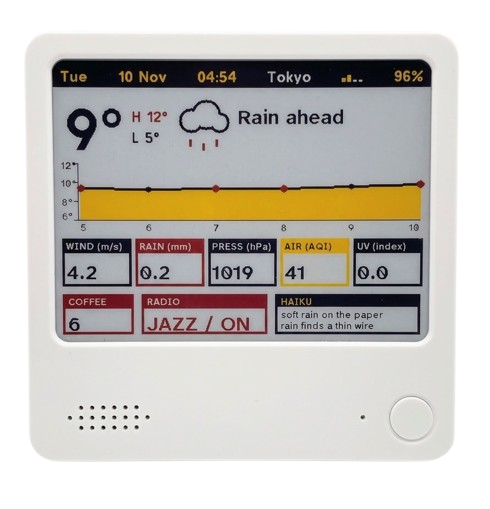
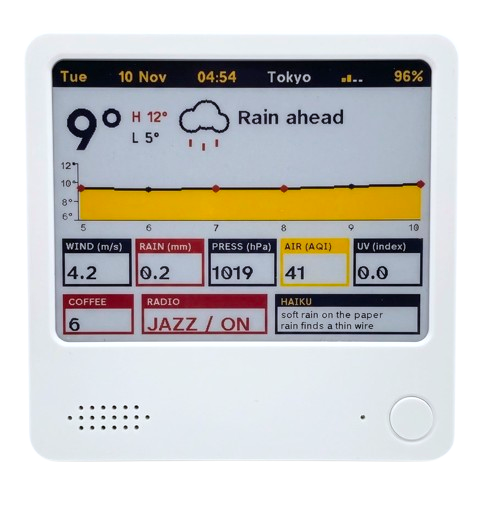
Explain phone NFC brew counting and refresh the hero photo.
The README now ties the brew tile to tapping your phone on the desk.

Changed region(s): [[0.1531, 0.3536, 0.8571, 0.5599]]

diff --git a/README.md b/README.md
@@ -34,7 +34,9 @@ The home network name and password are stored only in the device’s `home_nvs` 
 | Side Up / Down, short | Volume |
 | Side Up / Down, hold (~2 s) | Next / previous station |
 | Side Up and Down together, hold (~2 s) | Restart the device |
-| NFC tap | Count, chime, and refresh the tile |
+| Phone NFC on the desk | Add one to the brew count, chime, and refresh the tile |
+
+Hold the back of your phone on the JazzTrix until it responds. Each tap adds one to the brew box (for example **Coffee** on the paper). The setup page only changes the words on that tile; it does not change the count.
 
 The paper redraws on its own at most every four hours, and not between 00:00 and 06:00 local time. Coffee, radio, setup, and a triple-tap still refresh.
 
@@ -48,14 +50,14 @@ Setup stores these choices on the device:
 - **Unit suffix:** optional, for example `Wind (m/s)` or `Press (hPa)`.
 - **Titles:** box titles are uppercase. The setup page can leave them as written.
 - **Wind:** m/s, km/h, or mph. The number changes with the unit.
-- **Blocks:** temperature, forecast, NFC counter, and radio. Each can be turned off. The forecast is a graph, with every hour in the window labeled along the bottom. The left side shows at most four temperatures, stepped so they stay apart. Bars are the other choice. It can show 3, 6, 9, or 12 hours ahead.
+- **Blocks:** temperature, forecast, brew counter, and radio. Each can be turned off. The forecast is a graph, with every hour in the window labeled along the bottom. The left side shows at most four temperatures, stepped so they stay apart. Bars are the other choice. It can show 3, 6, 9, or 12 hours ahead.
 - **Borders:** on or off around the forecast, the temperature, the sky line (the icon and the condition), the weather tiles, the brew count, the radio, and the haiku. Tiles, brew, radio, and the haiku start with a border. The forecast, the temperature, and the sky line start without one.
 - **Bottom row:** the brew count, the radio, and a haiku. Each one can be turned off, and the row can be reordered. The boxes that stay on share the width, so one box fills the row and three keep the usual narrow brew, wider radio, and widest haiku. There are 30. By default the paper shows a new one each local day and keeps it until the next day. The Haiku section can pin one instead. The box is titled Haiku. Each poem is two lines, at most 22 characters, so it stays in English and inside the box. The radio title stays Radio. Its line reads the station name with ON or OFF. A long title or line is cut off at the box.
 - **Language:** English, Spanish, Chinese, German, French, Italian, Portuguese, Dutch, and Polish. The page and the paper follow it as soon as you change it. The pairing page is titled Setup, and the page is titled Settings once the phone is paired. The page shows v1.0 at the bottom. The paper shows v1.0 in the pairing bar, next to the word Setup. The version is not on the dashboard.
 - **Themes:** Classic, Sunset, Ocean, Marquee, Chorus, Brass, Spotlight, or custom pigments. NOTE4C has four pigments: black, paper, yellow, and red. NOTE4 is black and white; yellow and red are drawn as black. The device recognizes which paper it has. The setup page can force NOTE4 or NOTE4C if that guess is wrong.
 - **Dark mode:** swaps paper and black.
 - **Radio stations:** from an M3U or PLS list, or from URLs.
-- **NFC counter:** the text on the tile.
+- **Brew counter:** a running total on the paper. Tap your phone on the desk to add one. The title is your choice, such as Coffee or Tea, in the Brew section of setup.
 
 ## Build
 
